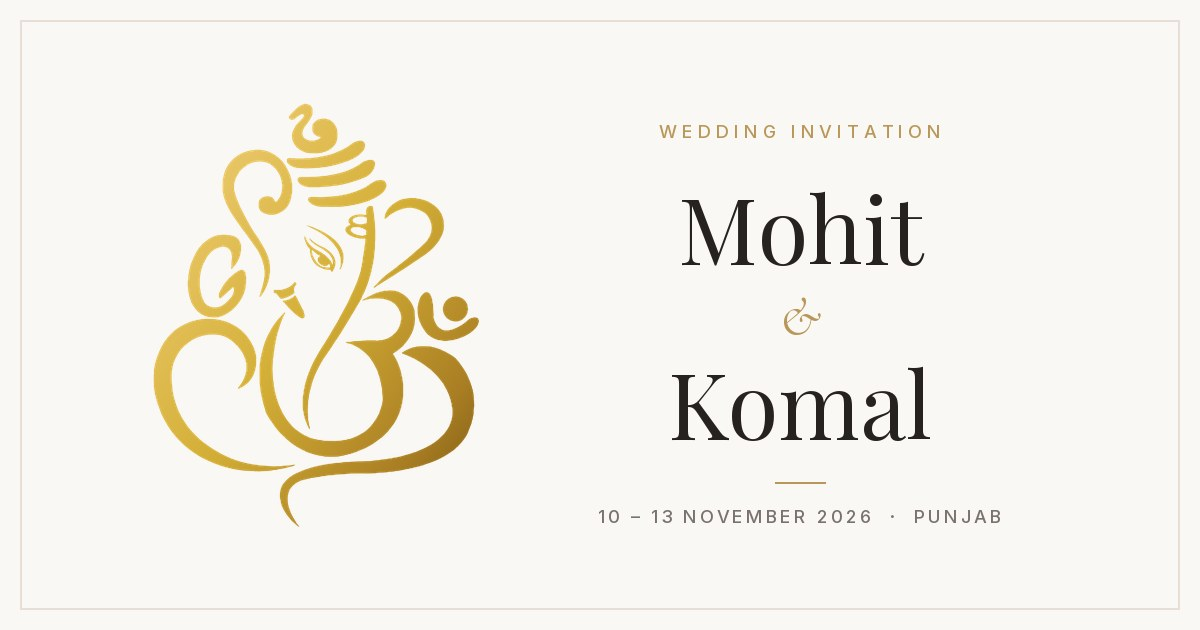
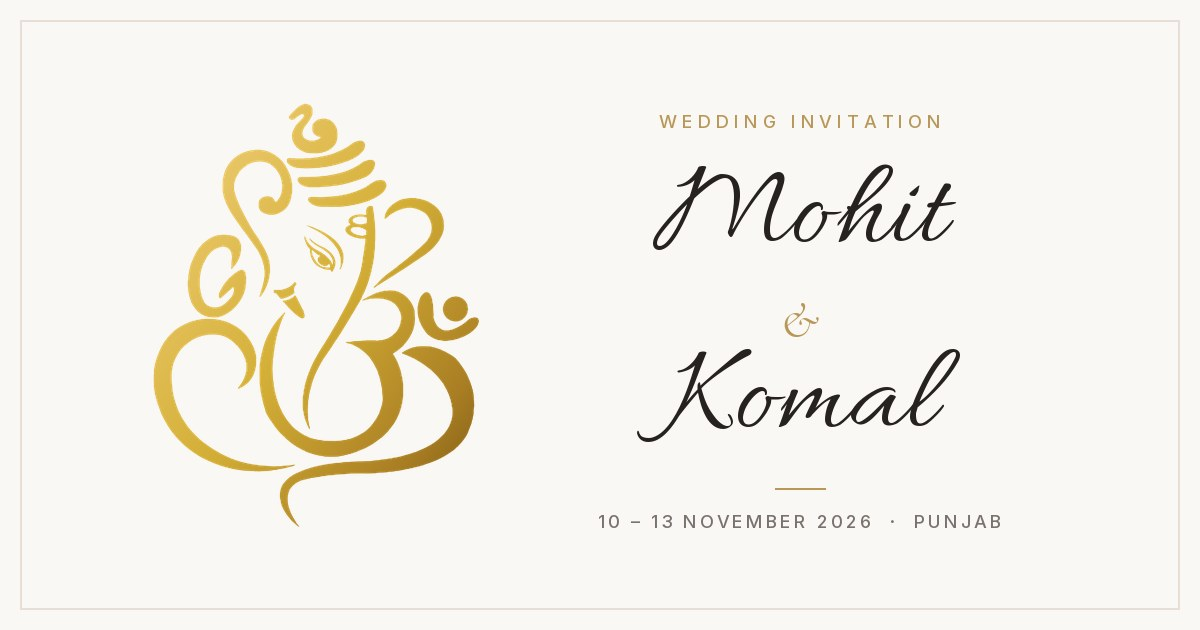
Add files via upload

diff --git a/index.html b/index.html
@@ -62,12 +62,17 @@
   @media (min-width:640px){.emblem{width:192px}}
   .shloka{margin-top:16px}
   @font-face{font-family:'Tiro Sanskrit';src:url(tiro-sanskrit.woff2) format('woff2');font-display:swap}
+  @font-face{font-family:'Allura';src:url(allura.woff2) format('woff2');font-display:swap}
   .shloka{font-family:'Tiro Sanskrit','Noto Serif Devanagari','Kohinoor Devanagari','Mangal',serif;letter-spacing:0}
   .shloka .title{font-size:24px;color:var(--gold);word-spacing:.25em;line-height:1.5}
   .shloka .verse{font-size:17px;color:var(--muted);margin-top:12px;line-height:1.9}
   @media (max-width:380px){.shloka .verse{font-size:15.5px}}
-  .together{font-size:12px;text-transform:uppercase;letter-spacing:.3em;color:var(--muted);margin:24px 0 20px}
-  .names h1{font-family:var(--serif);font-weight:400;font-size:clamp(48px,13vw,72px);letter-spacing:-.01em;line-height:1.1}
+  .tribute{font-family:var(--corm);font-style:italic;font-size:19px;line-height:1.4;color:var(--charcoal);margin-top:26px;max-width:22rem}
+  .tribute span{white-space:nowrap}
+  .together span{white-space:nowrap}
+  @media (max-width:520px){.together span{display:block}}
+  .together{line-height:1.9;font-size:12px;text-transform:uppercase;letter-spacing:.3em;color:var(--muted);margin:14px 0 20px}
+  .names h1{font-family:'Allura',var(--serif);font-weight:400;font-size:clamp(64px,18vw,96px);letter-spacing:0;line-height:1.15}
   .names .amp{font-family:var(--corm);font-style:italic;font-size:26px;color:var(--gold);font-weight:300;margin:4px 0}
   .when{font-size:13px;text-transform:uppercase;letter-spacing:.16em;color:var(--muted);margin:24px 0 28px;line-height:1.9}
   .orn{display:block;width:40px;height:1px;background:var(--gold);opacity:.6;margin:0 auto 28px}
@@ -197,7 +202,8 @@
     <p class="verse">वक्रतुण्ड महाकाय सूर्यकोटि समप्रभः ।<br>निर्विघ्नं कुरु मे देव सर्वकार्येषु सर्वदा ॥</p>
   </div>
 
-  <p class="together">Together with their families</p>
+  <p class="tribute">With the heavenly blessings of<br><span>Late Sh. Jatinder Joshi</span></p>
+  <p class="together"><span>Seeking your blessings</span> <span>on the wedding of</span></p>
 
   <div class="names">
     <h1>Mohit</h1>
@@ -248,7 +254,7 @@
           <p>Our Residence, Nurpur Bedi</p>
         </div>
         <div class="events">
-          <div class="event"><h4>Arambh Shri Ramayan</h4><span class="time"><b>9:00 AM</b></span></div>
+          <div class="event"><h4>Arambh Shri Ramayan Path</h4><span class="time"><b>9:00 AM</b></span></div>
           <div class="event"><h4>Haldi Ceremony</h4><span class="time"><b>12:00 PM</b></span></div>
           <div class="event"><h4>Mehndi</h4><span class="time"><b>6:00 PM</b></span></div>
           <div class="event"><h4>Ladies Sangeet</h4><span class="time"><b>7:00 PM</b></span></div>
@@ -397,7 +403,7 @@
   const MAPLE = 'Maple Valley, Nurpur Bedi - Balachaur Road, Punjab';
   // Times in IST. End times are estimates so the entries have a sensible length.
   const EVENTS = [
-    {name:'Arambh Shri Ramayan',     start:'2026-11-10T09:00', end:'2026-11-10T11:00', loc:RES},
+    {name:'Arambh Shri Ramayan Path',     start:'2026-11-10T09:00', end:'2026-11-10T11:00', loc:RES},
     {name:'Haldi Ceremony',          start:'2026-11-10T12:00', end:'2026-11-10T15:00', loc:RES},
     {name:'Mehndi',                 start:'2026-11-10T18:00', end:'2026-11-10T19:00', loc:RES},
     {name:'Ladies Sangeet',          start:'2026-11-10T19:00', end:'2026-11-10T23:00', loc:RES},
